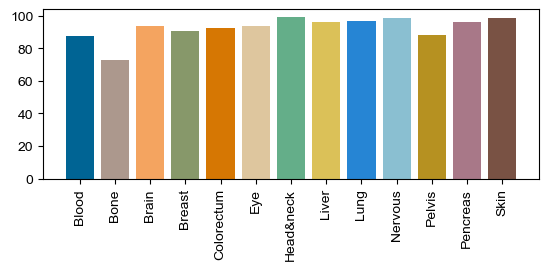
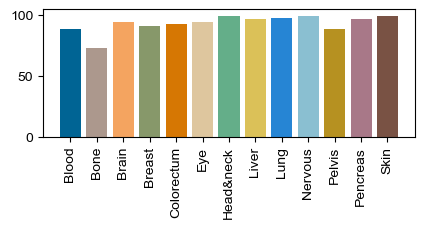
update

Changed region(s): [[0.0, 0.0307, 1.0, 0.9825]]

diff --git a/README.md b/README.md
@@ -83,7 +83,7 @@ python -u infer.py \
 
 Additionally, a pre-trained model trained with 476,562 cells from 13 tissues can also be [downloaded](https://drive.google.com/file/d/1v09bMQ5eO7YWXi6TKxPn4OZGj2rau_OE/view?usp=drive_link). Its internal performance is as follows. 
 
-<img src="sample_data/additional.png" > 
+<img src="sample_data/additional.png" width=300> 
 
 And more pre-trained models will be updated in the future.
 
